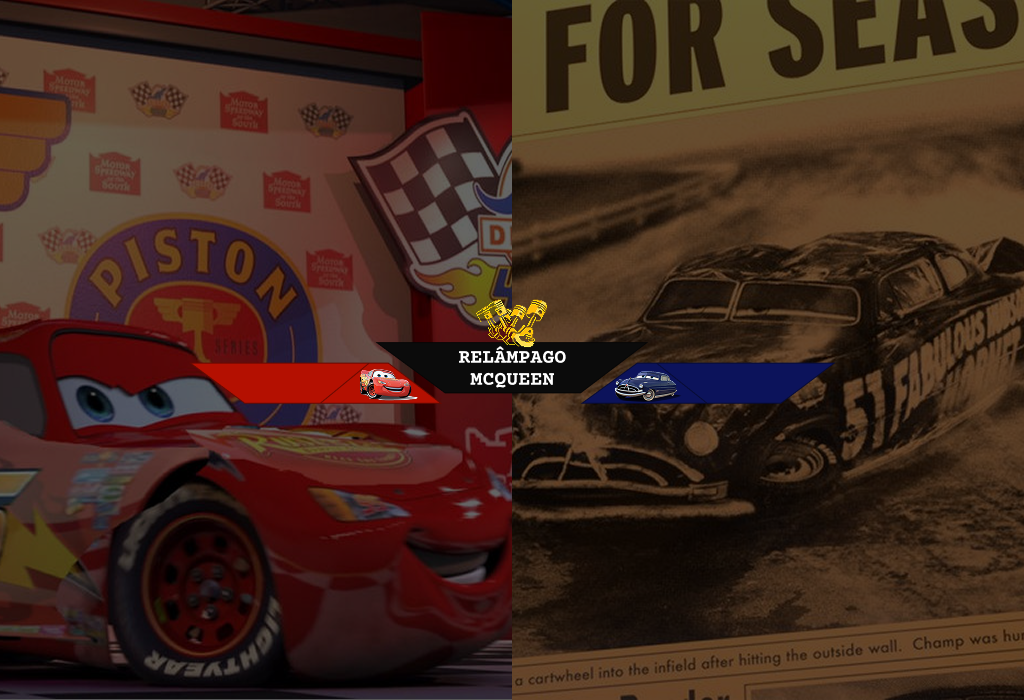
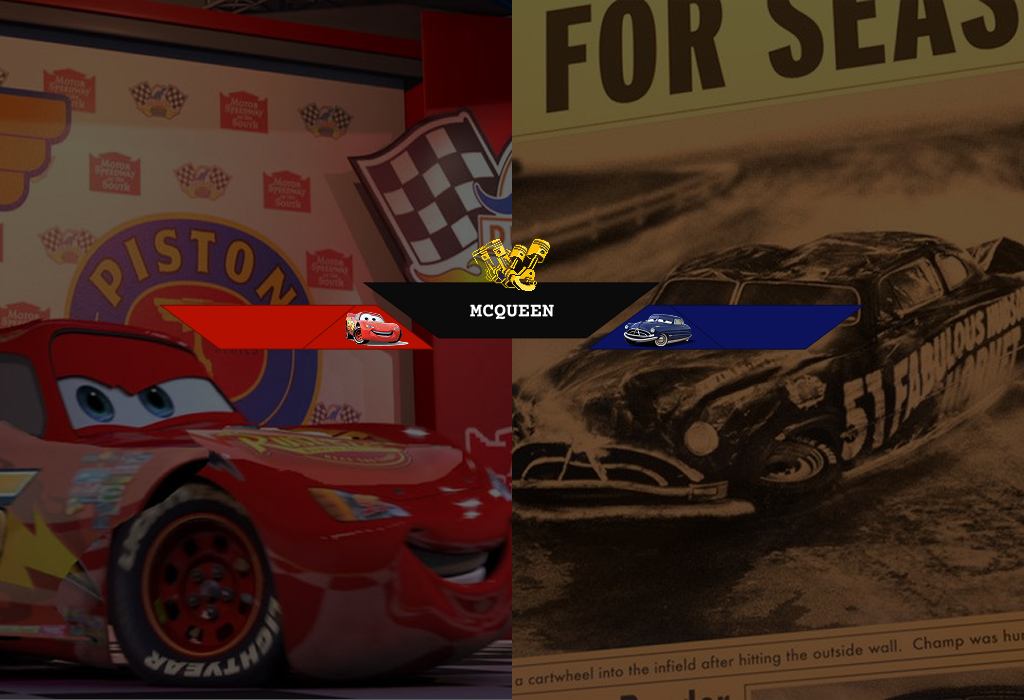
feat: gameover images

Changed region(s): [[0.1562, 0.33, 0.8438, 0.6]]

diff --git a/CopaBrequim/Level1.cpp b/CopaBrequim/Level1.cpp
@@ -1,3 +1,4 @@
+#include "CopaBrequim.h"
 #include "Ball.h"
 #include "Engine.h"
 #include "Home.h"
@@ -6,6 +7,7 @@
 #include "MCQueen.h"
 #include "Hudson.h"
 #include "Score.h"
+#include "GameOver.h"
 
 // ------------------------------------------------------------------------------
 
@@ -26,8 +28,7 @@ void Level1::Init()
 
     // cria bola
     // adiciona bola na cena
-    Sprite* ballSprite = new Sprite("Resources/sprites/football.png");
-	ball = new Ball(ballSprite);
+	ball = new Ball();
     scene->Add(ball, MOVING);
   
 	// cria placar
@@ -81,10 +82,7 @@ void Level1::Update()
 
     if (ball->X() > window->Width()) // se a bola bate na esquerda da tela
     {
-        int scoreP1 = score->GetP1Score();
-        int scoreP2 = score->GetP2Score();
-        OutputDebugString("Gol do Hudson!");
-        score->mcQueen_score = scoreP1 + 1;
+        CopaBrequim::hudsonScore++;
         mcQueen->Reset();
         hudson->Reset();
         ball->Reset();
@@ -93,10 +91,7 @@ void Level1::Update()
     }
 
     if (ball->X() < 0) { // se a bola bate na direita da tela
-        int scoreP1 = score->GetP1Score();
-        int scoreP2 = score->GetP2Score();
-        OutputDebugString("Gol do McQueen!");
-        score->hudson_score = scoreP2 + 1;
+        CopaBrequim::mcQueenScore++;
         mcQueen->Reset();
         hudson->Reset();
         ball->Reset();
@@ -104,12 +99,10 @@ void Level1::Update()
         currentGameState = PAUSED;
     }
 
-    if (score->GetP1Score() == 5 || score->GetP2Score() == 5 || score->timeOver) { // condi��es de fim de partida
-        mcQueen->Reset();
-        hudson->Reset();
-        score->Reset();
-        ball->Reset();
-        currentGameState = PAUSED;
+    if (CopaBrequim::mcQueenScore == 5 || CopaBrequim::hudsonScore == 5 || score->timeOver) { // condi��es de fim de partida
+		Engine::Next<GameOver>();
+
+        return;
     }
 
     // atualiza cena

diff --git a/CopaBrequim/GameOver.cpp b/CopaBrequim/GameOver.cpp
@@ -1,35 +1,60 @@
 
+#include "CopaBrequim.h"
+
 #include "Engine.h"
 #include "GameOver.h"
 #include "Home.h"
+#include "Sprite.h"
 
 // ----------------------------------------------------------------------
 
 void GameOver::Init()
 {
-    title = new Sprite("Resources/Background/GameOver.png");
+	font = new Font("Resources/font/Tahoma14b.png");
+	font->Spacing("Resources/font/Tahoma14b.dat");
+
+	if (CopaBrequim::mcQueenScore > CopaBrequim::hudsonScore)
+		backg = new Sprite("Resources/Background/mcqueen_winner.png");
+	else if (CopaBrequim::hudsonScore > CopaBrequim::mcQueenScore)
+		backg = new Sprite("Resources/Background/hudson_winner.png");
+	else
+		backg = new Sprite("Resources/Background/draw.png");
+
 }
 
 // ----------------------------------------------------------------------
 
+
 void GameOver::Update()
 {
-    if (window->KeyPress(VK_ESCAPE) || window->KeyPress(VK_RETURN))
+	if (window->KeyPress(VK_ESCAPE)) {
+		window->Close();
+		return;
+	}
+
+	if (window->KeyPress(VK_RETURN)) {
         Engine::Next<Home>();
+		return;
+	}
 }
 
 // ----------------------------------------------------------------------
 
 void GameOver::Draw()
 {
-    title->Draw(window->CenterX(), window->CenterY(), Layer::BACK);
+	Color gray{ 0.70f, 0.70f, 0.70f, 1.0f };
+
+    backg->Draw(window->CenterX(), window->CenterY(), Layer::BACK);
+	font->Draw(window->CenterX() - 240.0f, window->CenterY() - 10.0f, std::to_string(CopaBrequim::mcQueenScore), gray);
+	font->Draw(window->CenterX() + 240.0f, window->CenterY() - 10.0f, std::to_string(CopaBrequim::hudsonScore), gray);
+
 }
 
 // ----------------------------------------------------------------------
 
 void GameOver::Finalize()
 {
-    delete title;
+    delete backg;
 }
 
 // ----------------------------------------------------------------------

diff --git a/CopaBrequim/Score.cpp b/CopaBrequim/Score.cpp
@@ -24,9 +24,12 @@ Score::Score() {
 	
 	// carrega mensagem
 	pressEnter = new Sprite("Resources/background/press_space.png");
+
+	// tip
+	tip = new Sprite("Resources/background/guido_tip.png");
 	
-	mcQueen_score = 0;
-	hudson_score = 0;
+	CopaBrequim::mcQueenScore = 0;
+	CopaBrequim::hudsonScore = 0;
 
 	timer = new Timer();
 	
@@ -42,13 +45,14 @@ Score::~Score() {
 	delete font;
 	delete keyMap;
 	delete pressEnter;
+	delete tip;
 }
 
 // ---------------------------------------------------------------------------------
 
 void Score::Reset() { // volta todos os elementos ao seu estado inicial
-	mcQueen_score = 0;
-	hudson_score = 0;
+	CopaBrequim::mcQueenScore = 0;
+	CopaBrequim::hudsonScore = 0;
 	timer->Stop();
 	timer->Reset();
 	timerOn = false;
@@ -89,10 +93,12 @@ void Score::Draw() {
 
 	// desenha tempo e placar
 	Color gray{ 0.70f, 0.70f, 0.70f, 1.0f };
+	Color black{ 0.0f, 0.0f, 0.0f, 1.0f };	
 
-	font->Draw(window->CenterX() - 130.0f, window->Height() - 4.0f, to_string(mcQueen_score), gray);
-	font->Draw(window->CenterX() + 130.0f, window->Height() - 4.0f, to_string(hudson_score), gray);
+	font->Draw(window->CenterX() - 130.0f, window->Height() - 4.0f, to_string(CopaBrequim::hudsonScore), gray);
+	font->Draw(window->CenterX() + 150.0f, window->Height() - 4.0f, to_string(CopaBrequim::mcQueenScore), gray);
 
+	tip->Draw(100.0f, window->Height() - 40.0f, Layer::FRONT);
 
 	if (timerOn) { // atualiza o rel�gio da partida
 		string elapsedTime = to_string(maxTime - (int)timer->Elapsed()); //TODO bug-fix: timer pausado n�o � exibido corretamente

diff --git a/CopaBrequim/Level2.cpp b/CopaBrequim/Level2.cpp
@@ -1,3 +1,6 @@
+#include "CopaBrequim.h"
+
+#include "GameOver.h"
 #include "Ball.h"
 #include "Engine.h"
 #include "Home.h"
@@ -77,9 +80,7 @@ void Level2::Update()
 
     if (ball->X() > window->Width()) // se a bola bate na esquerda da tela
     {
-        int scoreP1 = score->GetP1Score();
-        int scoreP2 = score->GetP2Score();
-        score->mcQueen_score = scoreP1 + 1;
+        CopaBrequim::hudsonScore++;
         mcQueen->Reset();
         hudson->Reset();
         ball->Reset();
@@ -88,9 +89,7 @@ void Level2::Update()
     }
 
     if (ball->X() < 0) { // se a bola bate na direita da tela
-        int scoreP1 = score->GetP1Score();
-        int scoreP2 = score->GetP2Score();
-        score->hudson_score = scoreP2 + 1;
+        CopaBrequim::mcQueenScore++;
         mcQueen->Reset();
         hudson->Reset();
         ball->Reset();
@@ -98,12 +97,10 @@ void Level2::Update()
         currentGameState = PAUSED;
     }
 
-    if (score->GetP1Score() == 5 || score->GetP2Score() == 5 || score->timeOver) { // condi��es de fim de partida
-        mcQueen->Reset();
-        hudson->Reset();
-        score->Reset();
-        ball->Reset();
-        currentGameState = PAUSED;
+    if (CopaBrequim::mcQueenScore == 5 || CopaBrequim::hudsonScore == 5 || score->timeOver) { // condi��es de fim de partida
+        Engine::Next<GameOver>();
+
+        return;
     }
 
     // atualiza cena

diff --git a/CopaBrequim/GameOver.h b/CopaBrequim/GameOver.h
@@ -2,24 +2,29 @@
 #define _COPABREQUIM_GAMEOVER_H_
 
 // ------------------------------------------------------------------------------
+// Inclus�es
 
 #include "Game.h"
 #include "Sprite.h"
+#include "Scene.h"
+#include "Font.h"
 
 // ------------------------------------------------------------------------------
 
 class GameOver : public Game
 {
 private:
-    Sprite* title = nullptr;       // tela de fim
+	Sprite* backg = nullptr;       // background
+    Scene* scene = nullptr;        // gerenciador de cena
+    Font* font = nullptr;
 
 public:
-    void Init();                    // inicializa��o do n�vel
-    void Update();                  // l�gica da tela de fim
-    void Draw();                    // desenho da tela
-    void Finalize();                // finaliza��o do n�vel
+	void Init(); // construtor com pontua����es
+    void Update();                  // atualiza l�gica do jogo
+    void Draw();                    // desenha jogo
+    void Finalize();                // finaliza jogo
 };
 
-// ------------------------------------------------------------------------------
+// -----------------------------------------------------------------------------
 
 #endif

diff --git a/CopaBrequim/CopaBrequim.cpp b/CopaBrequim/CopaBrequim.cpp
@@ -19,6 +19,8 @@
 
 Scene * CopaBrequim::scene = nullptr;         // cena do jogo
 Audio * CopaBrequim::audio = nullptr;         // sistema de áudio
+int CopaBrequim::mcQueenScore = 0;            // pontuação do McQueen
+int CopaBrequim::hudsonScore = 0;            // pontuação do Hudson
 
 // ------------------------------------------------------------------------------
 //                                  WinMain                                      

diff --git a/CopaBrequim/CopaBrequim.h b/CopaBrequim/CopaBrequim.h
@@ -20,6 +20,7 @@
 #include "Sprite.h"
 #include "Scene.h"
 #include "Font.h"
+#include "Score.h"
 
 // ------------------------------------------------------------------------------
 
@@ -40,6 +41,9 @@ private:
 public:
 	static Scene* scene;           // cena do jogo
 	static Audio* audio;           // sistema de áudio
+
+	static int mcQueenScore;
+	static int hudsonScore;
 
 	void Init();
 	void Update();

diff --git a/CopaBrequim/Ball.cpp b/CopaBrequim/Ball.cpp
@@ -16,7 +16,7 @@
 
 Ball::Ball() {
 	// cria sprite da bola
-	ballSprite = new Sprite("Resources/football.png");
+	ballSprite = new Sprite("Resources/sprites/football.png");
 	
 	// Aproximação hexagonal para o BBox
 	Point ballVertex[10] = {

diff --git a/CopaBrequim/Engine.h b/CopaBrequim/Engine.h
@@ -61,7 +61,7 @@ public:
             game = new T();
             game->Init();
         }
-    };
+    }
 };
 
 // ---------------------------------------------------------------------------------
